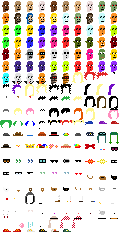
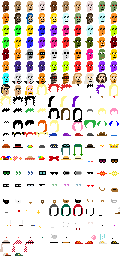
up

diff --git a/punks/spritesheet/12px.rb b/punks/spritesheet/12px.rb
@@ -76,6 +76,13 @@ ATTRIBUTES = {
       'vampire_orange',
       'mummy',
       'mummy_orange',
+      'davinci',
+      'davinci_(a)',
+      'shakespeare',
+      'vangogh',
+      'frida',
+      'frida_(a)',
+      'mundl',
    ],
    hair: [
       'blonde_bob',
@@ -142,16 +149,20 @@ ATTRIBUTES = {
       'sombrero',
       'birthday_hat',
       'bow',
+      'sun_hat',
+      'sun_hat_(a)',
    ],
    eyes: [
       '3d_glasses',
       'big_shades',
       'classic_shades',
+      'classic_shades_green',
       'clown_eyes_green',
       'clown_eyes_blue',
       'nerd_glasses',
       'regular_shades',
       'vr',
+      'vr_pro',
       'small_shades',
       'laser_eyes',
       'laser_eyes_gold',
@@ -182,7 +193,11 @@ ATTRIBUTES = {
    more: [
       'clown_nose',
       'earring',
+      'earcross',
       'hoodie',
+      'hoodie_green',
+      'hoodie_red',
+      'hoodie_white',
       'choker',
       'pipe',
       'cigarette',
@@ -198,6 +213,7 @@ ATTRIBUTES = {
       'hot_lipstick',  
       'pink_lipstick',
       'burgundy_lipstick',
+      'green_lipstick',
       'medical_mask',
       'buck_teeth',
       'demon_horns',
